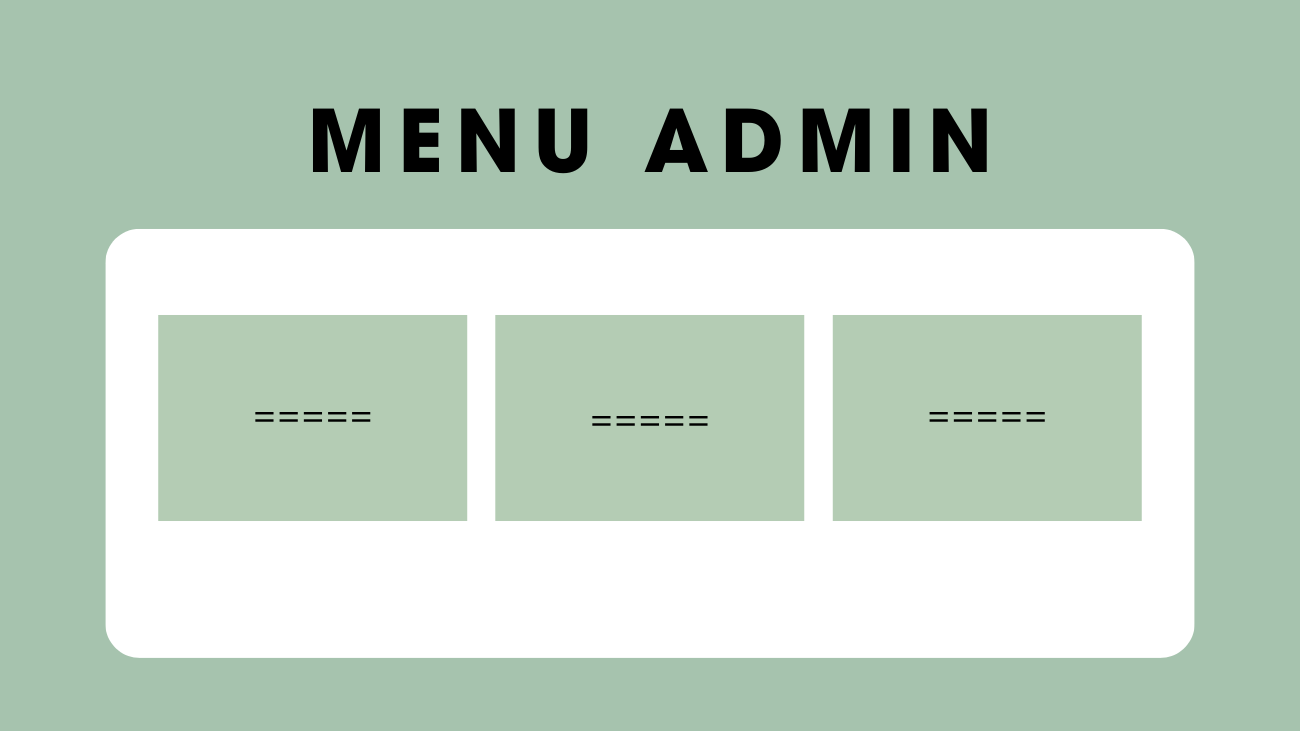
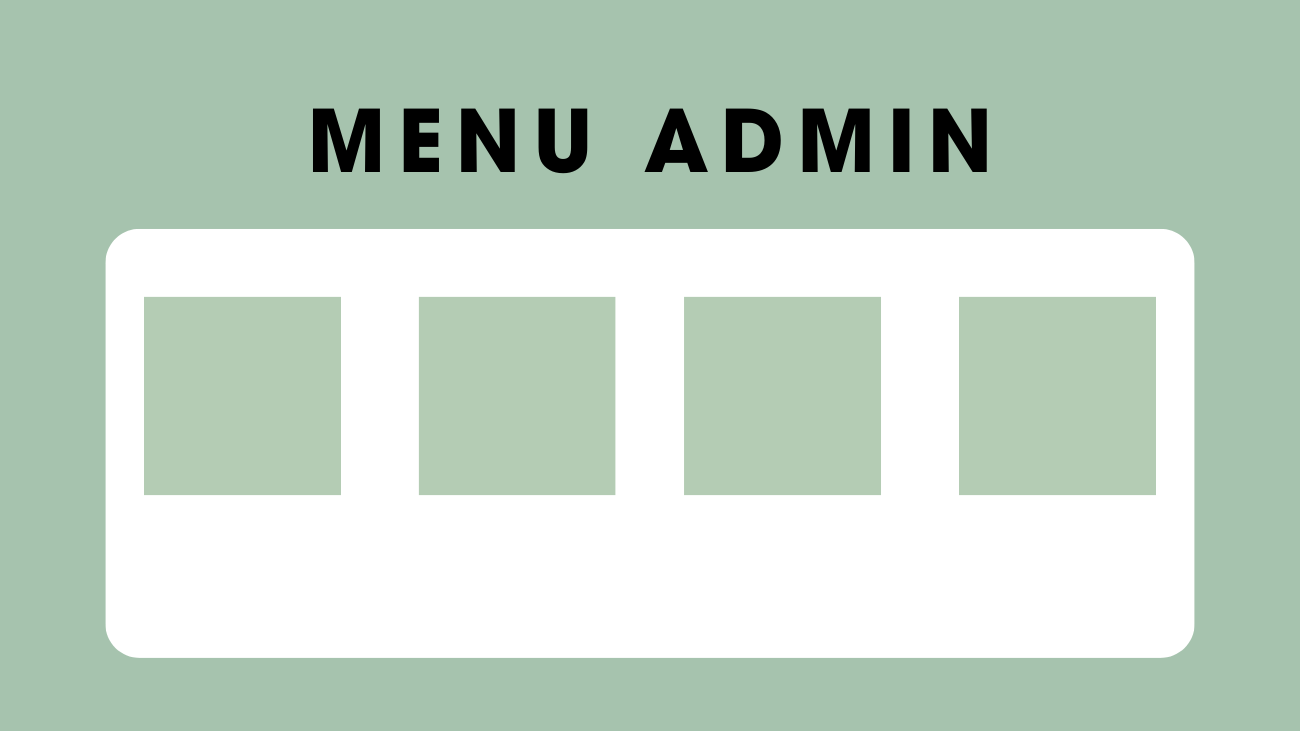
nuntasin frame login kasir admin

Changed region(s): [[0.0923, 0.3912, 0.8923, 0.7223]]

diff --git a/stationeryStore/src/main/java/userinterface/frameMenuAdmin.java b/stationeryStore/src/main/java/userinterface/frameMenuAdmin.java
@@ -8,12 +8,12 @@ package userinterface;
  *
  * @author Septiancesare
  */
-public class frameMenuKasir extends javax.swing.JFrame {
+public class frameMenuAdmin extends javax.swing.JFrame {
 
     /**
      * Creates new form frameMenuKasir
      */
-    public frameMenuKasir() {
+    public frameMenuAdmin() {
         initComponents();
     }
 
@@ -27,10 +27,11 @@ public class frameMenuKasir extends javax.swing.JFrame {
     private void initComponents() {
 
         jPanel1 = new javax.swing.JPanel();
-        btnTransaksi = new javax.swing.JButton();
+        btnPembelian = new javax.swing.JButton();
+        btnDataBarang = new javax.swing.JButton();
         btnRiwayatTransaksi = new javax.swing.JButton();
-        btnMember = new javax.swing.JButton();
         btnKeluar = new javax.swing.JButton();
+        btnDataPegawai = new javax.swing.JButton();
         bg = new javax.swing.JLabel();
 
         setDefaultCloseOperation(javax.swing.WindowConstants.EXIT_ON_CLOSE);
@@ -38,33 +39,38 @@ public class frameMenuKasir extends javax.swing.JFrame {
 
         jPanel1.setLayout(new org.netbeans.lib.awtextra.AbsoluteLayout());
 
-        btnTransaksi.setBackground(new java.awt.Color(132, 179, 132));
-        btnTransaksi.setFont(new java.awt.Font("Century Gothic", 0, 24)); // NOI18N
-        btnTransaksi.setForeground(new java.awt.Color(0, 51, 51));
-        btnTransaksi.setText("TRANSAKSI");
-        btnTransaksi.addActionListener(new java.awt.event.ActionListener() {
+        btnPembelian.setBackground(new java.awt.Color(132, 179, 132));
+        btnPembelian.setFont(new java.awt.Font("Century Gothic", 0, 18)); // NOI18N
+        btnPembelian.setForeground(new java.awt.Color(0, 51, 51));
+        btnPembelian.setText("PEMBELIAN");
+        btnPembelian.addActionListener(new java.awt.event.ActionListener() {
             public void actionPerformed(java.awt.event.ActionEvent evt) {
-                btnTransaksiActionPerformed(evt);
+                btnPembelianActionPerformed(evt);
             }
         });
-        jPanel1.add(btnTransaksi, new org.netbeans.lib.awtextra.AbsoluteConstraints(160, 310, 310, 210));
+        jPanel1.add(btnPembelian, new org.netbeans.lib.awtextra.AbsoluteConstraints(140, 290, 210, 210));
+
+        btnDataBarang.setBackground(new java.awt.Color(132, 179, 132));
+        btnDataBarang.setFont(new java.awt.Font("Century Gothic", 0, 18)); // NOI18N
+        btnDataBarang.setForeground(new java.awt.Color(0, 51, 51));
+        btnDataBarang.setText("DATA BARANG");
+        btnDataBarang.addActionListener(new java.awt.event.ActionListener() {
+            public void actionPerformed(java.awt.event.ActionEvent evt) {
+                btnDataBarangActionPerformed(evt);
+            }
+        });
+        jPanel1.add(btnDataBarang, new org.netbeans.lib.awtextra.AbsoluteConstraints(410, 290, 210, 210));
 
         btnRiwayatTransaksi.setBackground(new java.awt.Color(132, 179, 132));
-        btnRiwayatTransaksi.setFont(new java.awt.Font("Century Gothic", 0, 24)); // NOI18N
+        btnRiwayatTransaksi.setFont(new java.awt.Font("Century Gothic", 0, 16)); // NOI18N
         btnRiwayatTransaksi.setForeground(new java.awt.Color(0, 51, 51));
-        btnRiwayatTransaksi.setText("RIWAYAT TRANSAKSI");
+        btnRiwayatTransaksi.setText("RIWAYAT TRANSAKSI"); // NOI18N
         btnRiwayatTransaksi.addActionListener(new java.awt.event.ActionListener() {
             public void actionPerformed(java.awt.event.ActionEvent evt) {
                 btnRiwayatTransaksiActionPerformed(evt);
             }
         });
-        jPanel1.add(btnRiwayatTransaksi, new org.netbeans.lib.awtextra.AbsoluteConstraints(490, 310, 320, 210));
-
-        btnMember.setBackground(new java.awt.Color(132, 179, 132));
-        btnMember.setFont(new java.awt.Font("Century Gothic", 0, 24)); // NOI18N
-        btnMember.setForeground(new java.awt.Color(0, 51, 51));
-        btnMember.setText("DATA MEMBER");
-        jPanel1.add(btnMember, new org.netbeans.lib.awtextra.AbsoluteConstraints(830, 310, 320, 210));
+        jPanel1.add(btnRiwayatTransaksi, new org.netbeans.lib.awtextra.AbsoluteConstraints(950, 290, 210, 210));
 
         btnKeluar.setBackground(new java.awt.Color(102, 102, 102));
         btnKeluar.setFont(new java.awt.Font("Segoe UI", 1, 24)); // NOI18N
@@ -78,7 +84,13 @@ public class frameMenuKasir extends javax.swing.JFrame {
         });
         jPanel1.add(btnKeluar, new org.netbeans.lib.awtextra.AbsoluteConstraints(310, 550, 650, 80));
 
-        bg.setIcon(new javax.swing.ImageIcon(getClass().getResource("/background/menuKasir.png"))); // NOI18N
+        btnDataPegawai.setBackground(new java.awt.Color(132, 179, 132));
+        btnDataPegawai.setFont(new java.awt.Font("Century Gothic", 0, 18)); // NOI18N
+        btnDataPegawai.setForeground(new java.awt.Color(0, 51, 51));
+        btnDataPegawai.setText("DATA PEGAWAI");
+        jPanel1.add(btnDataPegawai, new org.netbeans.lib.awtextra.AbsoluteConstraints(680, 290, 210, 210));
+
+        bg.setIcon(new javax.swing.ImageIcon(getClass().getResource("/background/menuAdmin.png"))); // NOI18N
         jPanel1.add(bg, new org.netbeans.lib.awtextra.AbsoluteConstraints(0, 0, -1, -1));
 
         getContentPane().add(jPanel1, new org.netbeans.lib.awtextra.AbsoluteConstraints(0, 0, 1300, 730));
@@ -88,18 +100,22 @@ public class frameMenuKasir extends javax.swing.JFrame {
 
     private void btnKeluarActionPerformed(java.awt.event.ActionEvent evt) {//GEN-FIRST:event_btnKeluarActionPerformed
         // TODO add your handling code here:
-        frameLoginKasir loginKasir = new frameLoginKasir();
-        loginKasir.setVisible(true);
+        frameLoginAdmin loginAdmin = new frameLoginAdmin();
+        loginAdmin.setVisible(true);
         this.dispose();
     }//GEN-LAST:event_btnKeluarActionPerformed
+
+    private void btnDataBarangActionPerformed(java.awt.event.ActionEvent evt) {//GEN-FIRST:event_btnDataBarangActionPerformed
+        // TODO add your handling code here:
+    }//GEN-LAST:event_btnDataBarangActionPerformed
+
+    private void btnPembelianActionPerformed(java.awt.event.ActionEvent evt) {//GEN-FIRST:event_btnPembelianActionPerformed
+        // TODO add your handling code here:
+    }//GEN-LAST:event_btnPembelianActionPerformed
 
     private void btnRiwayatTransaksiActionPerformed(java.awt.event.ActionEvent evt) {//GEN-FIRST:event_btnRiwayatTransaksiActionPerformed
         // TODO add your handling code here:
     }//GEN-LAST:event_btnRiwayatTransaksiActionPerformed
-
-    private void btnTransaksiActionPerformed(java.awt.event.ActionEvent evt) {//GEN-FIRST:event_btnTransaksiActionPerformed
-        // TODO add your handling code here:
-    }//GEN-LAST:event_btnTransaksiActionPerformed
 
     /**
      * @param args the command line arguments
@@ -118,30 +134,32 @@ public class frameMenuKasir extends javax.swing.JFrame {
                 }
             }
         } catch (ClassNotFoundException ex) {
-            java.util.logging.Logger.getLogger(frameMenuKasir.class.getName()).log(java.util.logging.Level.SEVERE, null, ex);
+            java.util.logging.Logger.getLogger(frameMenuAdmin.class.getName()).log(java.util.logging.Level.SEVERE, null, ex);
         } catch (InstantiationException ex) {
-            java.util.logging.Logger.getLogger(frameMenuKasir.class.getName()).log(java.util.logging.Level.SEVERE, null, ex);
+            java.util.logging.Logger.getLogger(frameMenuAdmin.class.getName()).log(java.util.logging.Level.SEVERE, null, ex);
         } catch (IllegalAccessException ex) {
-            java.util.logging.Logger.getLogger(frameMenuKasir.class.getName()).log(java.util.logging.Level.SEVERE, null, ex);
+            java.util.logging.Logger.getLogger(frameMenuAdmin.class.getName()).log(java.util.logging.Level.SEVERE, null, ex);
         } catch (javax.swing.UnsupportedLookAndFeelException ex) {
-            java.util.logging.Logger.getLogger(frameMenuKasir.class.getName()).log(java.util.logging.Level.SEVERE, null, ex);
+            java.util.logging.Logger.getLogger(frameMenuAdmin.class.getName()).log(java.util.logging.Level.SEVERE, null, ex);
         }
+        //</editor-fold>
         //</editor-fold>
 
         /* Create and display the form */
         java.awt.EventQueue.invokeLater(new Runnable() {
             public void run() {
-                new frameMenuKasir().setVisible(true);
+                new frameMenuAdmin().setVisible(true);
             }
         });
     }
 
     // Variables declaration - do not modify//GEN-BEGIN:variables
     private javax.swing.JLabel bg;
+    private javax.swing.JButton btnDataBarang;
+    private javax.swing.JButton btnDataPegawai;
     private javax.swing.JButton btnKeluar;
-    private javax.swing.JButton btnMember;
+    private javax.swing.JButton btnPembelian;
     private javax.swing.JButton btnRiwayatTransaksi;
-    private javax.swing.JButton btnTransaksi;
     private javax.swing.JPanel jPanel1;
     // End of variables declaration//GEN-END:variables
 }

diff --git a/stationeryStore/src/main/java/userinterface/frameLoginKasir.java b/stationeryStore/src/main/java/userinterface/frameLoginKasir.java
@@ -4,6 +4,13 @@
  */
 package userinterface;
 
+import com.mycompany.stationerystore.ConnectionDatabase;
+import java.sql.Connection;
+import java.sql.PreparedStatement;
+import java.sql.ResultSet;
+import java.sql.SQLException;
+import java.util.logging.Level;
+import java.util.logging.Logger;
 import javax.swing.JOptionPane;
 
 /**
@@ -106,16 +113,36 @@ public class frameLoginKasir extends javax.swing.JFrame {
 
     private void btnLoginActionPerformed(java.awt.event.ActionEvent evt) {//GEN-FIRST:event_btnLoginActionPerformed
         // TODO add your handling code here:
-        frameMenuKasir menuKasir = new frameMenuKasir();
-        String username = inputUsername.getText();
-        char[] password = inputPassword.getPassword();
+        frameMenuKasir menu = new frameMenuKasir();
+        
+        try {
+            ConnectionDatabase koneksidatabase;
+            koneksidatabase = ConnectionDatabase.getInstance();
+            Connection connect = koneksidatabase.getConnection();
+            
+            String username = inputUsername.getText();
+            char[] password = inputPassword.getPassword();
             String passwordString = new String(password);
             
-        if (username.equals("kasir") && passwordString.equals("kasir")){
-            menuKasir.setVisible(true);
-            this.dispose();
-        }else{
-            JOptionPane.showMessageDialog(this, "Login Gagal! Pastikan Username dan Password sesuai!", "Pesan", JOptionPane.INFORMATION_MESSAGE);
+            String query = "SELECT * FROM datapegawai WHERE idPegawai = ? AND password = ? AND status = 'kasir'";
+            PreparedStatement statement = connect.prepareStatement(query);
+    
+            statement.setString(1, username);
+            statement.setString(2, passwordString);
+            ResultSet rs = statement.executeQuery();
+            
+            if(rs.next()){
+                menu.setVisible(true);
+                this.dispose();
+            } else {
+                JOptionPane.showMessageDialog(this, "Login Gagal! Pastikan Username dan Password sesuai!", "Pesan", JOptionPane.INFORMATION_MESSAGE);
+            }
+            
+            rs.close();
+            statement.close();
+            
+        } catch (SQLException ex) {
+            Logger.getLogger(frameLoginKasir.class.getName()).log(Level.SEVERE, null, ex);
         }
     }//GEN-LAST:event_btnLoginActionPerformed
 

diff --git a/stationeryStore/src/main/java/userinterface/frameLoginAdmin.java b/stationeryStore/src/main/java/userinterface/frameLoginAdmin.java
@@ -4,6 +4,15 @@
  */
 package userinterface;
 
+import com.mycompany.stationerystore.ConnectionDatabase;
+import java.sql.Connection;
+import java.sql.PreparedStatement;
+import java.sql.ResultSet;
+import java.sql.SQLException;
+import java.util.logging.Level;
+import java.util.logging.Logger;
+import javax.swing.JOptionPane;
+
 /**
  *
  * @author Septiancesare
@@ -104,7 +113,37 @@ public class frameLoginAdmin extends javax.swing.JFrame {
 
     private void btnLoginActionPerformed(java.awt.event.ActionEvent evt) {//GEN-FIRST:event_btnLoginActionPerformed
         // TODO add your handling code here:
+        frameMenuAdmin menu = new frameMenuAdmin();
         
+        try {
+            ConnectionDatabase koneksidatabase;
+            koneksidatabase = ConnectionDatabase.getInstance();
+            Connection connect = koneksidatabase.getConnection();
+            
+            String username = inputUsername.getText();
+            char[] password = inputPassword.getPassword();
+            String passwordString = new String(password);
+            
+            String query = "SELECT * FROM datapegawai WHERE idPegawai = ? AND password = ? AND status = 'admin'";
+            PreparedStatement statement = connect.prepareStatement(query);
+    
+            statement.setString(1, username);
+            statement.setString(2, passwordString);
+            ResultSet rs = statement.executeQuery();
+            
+            if(rs.next()){
+                menu.setVisible(true);
+                this.dispose();
+            } else {
+                JOptionPane.showMessageDialog(this, "Login Gagal! Pastikan Username dan Password sesuai!", "Pesan", JOptionPane.INFORMATION_MESSAGE);
+            }
+            
+            rs.close();
+            statement.close();
+            
+        } catch (SQLException ex) {
+            Logger.getLogger(frameLoginKasir.class.getName()).log(Level.SEVERE, null, ex);
+        }
     }//GEN-LAST:event_btnLoginActionPerformed
 
     /**

diff --git a/stationeryStore/src/main/java/com/mycompany/stationerystore/ConnectionDatabase.java b/stationeryStore/src/main/java/com/mycompany/stationerystore/ConnectionDatabase.java
@@ -12,7 +12,7 @@ import java.sql.*;
  * @author Septiancesare
  */
 public class ConnectionDatabase {
-    String url = "jdbc:mysql://localhost:3306/sistemadminperpus";
+    String url = "jdbc:mysql://localhost:3306/sistemkasir";
     String username = "root";
     String password = "";
     
